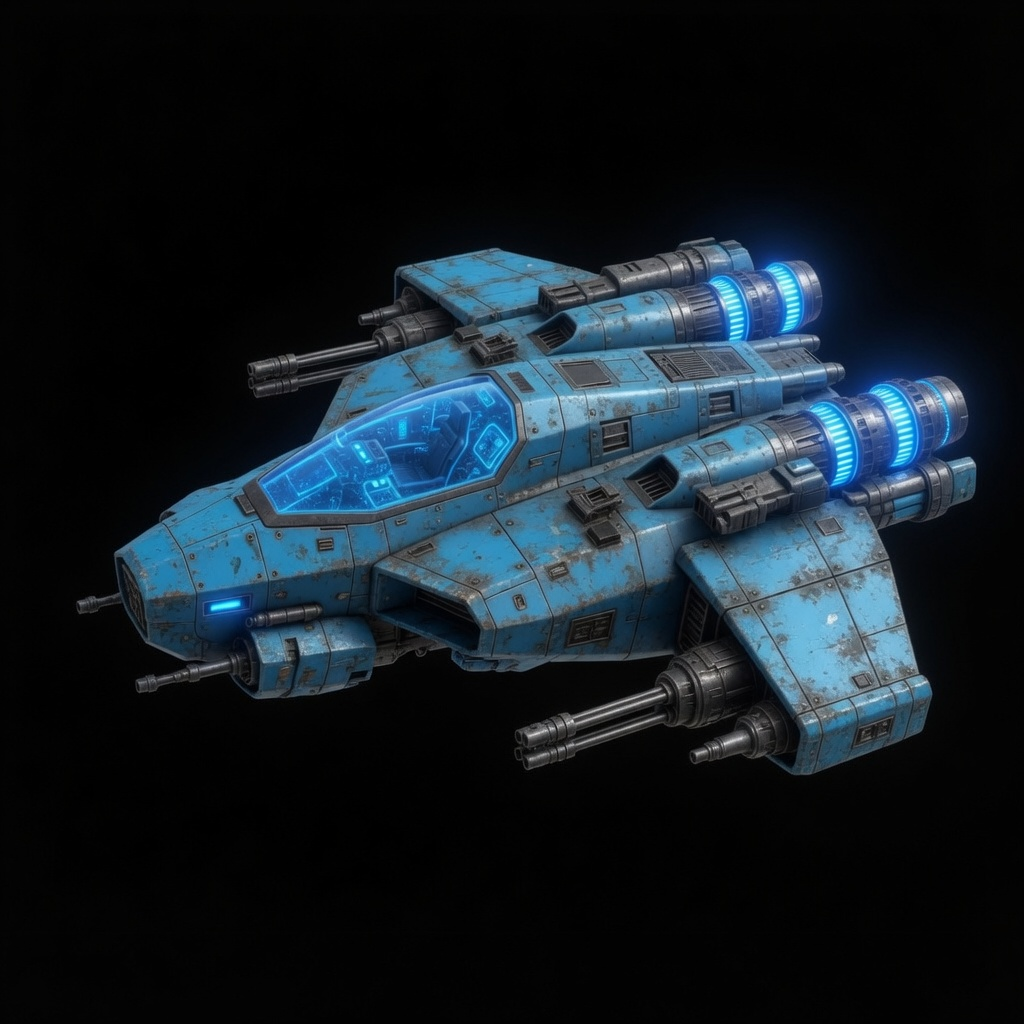
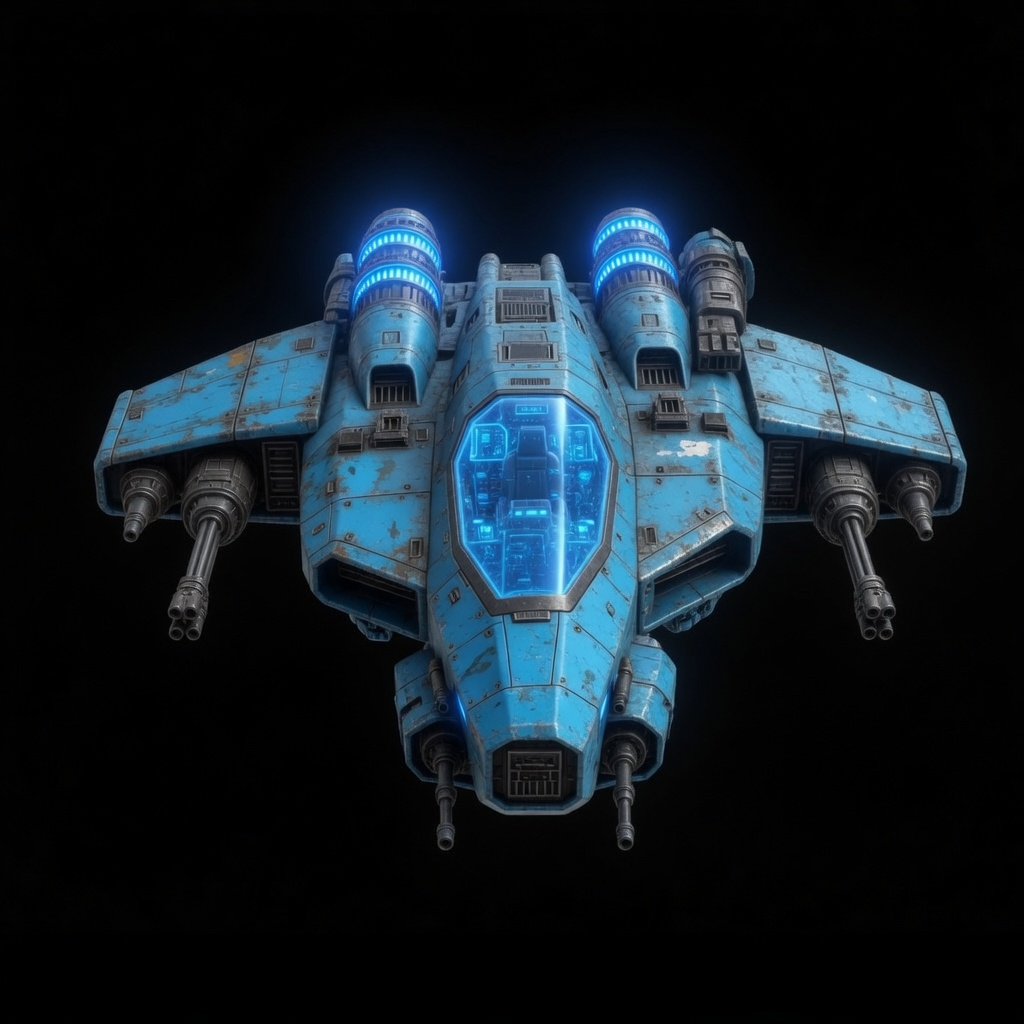
Expand craft yaw sheets from 8 to 16 directions.

diff --git a/src/game/view3d/craftAssets.test.ts b/src/game/view3d/craftAssets.test.ts
@@ -2,10 +2,10 @@ import { describe, expect, it } from "vitest";
 import { yawFrameIndex } from "./craftAssets";
 
 describe("yawFrameIndex", () => {
-  it("maps east / south / west / north onto 8 dirs", () => {
+  it("maps east / south / west / north onto 16 dirs", () => {
     expect(yawFrameIndex(0)).toBe(0);
-    expect(yawFrameIndex(Math.PI / 2)).toBe(2);
-    expect(yawFrameIndex(Math.PI)).toBe(4);
-    expect(yawFrameIndex(-Math.PI / 2)).toBe(6);
+    expect(yawFrameIndex(Math.PI / 2)).toBe(4);
+    expect(yawFrameIndex(Math.PI)).toBe(8);
+    expect(yawFrameIndex(-Math.PI / 2)).toBe(12);
   });
 });

diff --git a/src/game/view3d/craftAssets.ts b/src/game/view3d/craftAssets.ts
@@ -1,7 +1,7 @@
 import * as THREE from "three";
 import type { VultureId } from "@/data/weapons";
 
-export const CRAFT_YAW_DIRS = 8;
+export const CRAFT_YAW_DIRS = 16;
 
 export type CraftArtKit = Partial<Record<VultureId, THREE.Texture[]>>;
 
